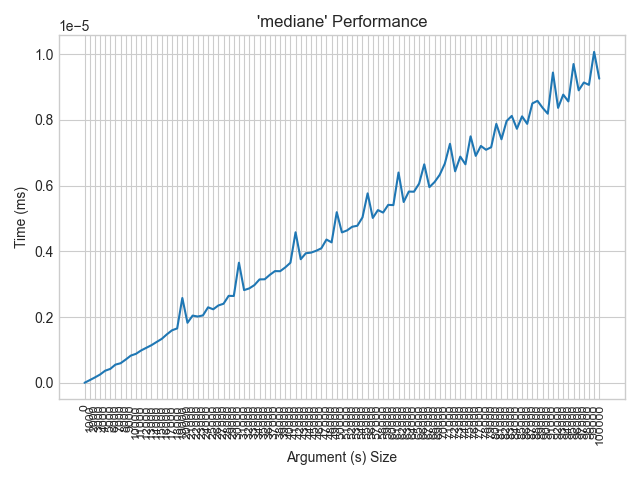
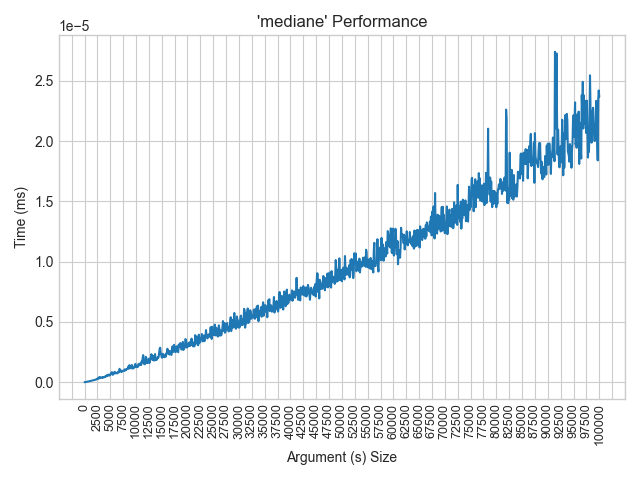
ajout des tests de performances

Changed region(s): [[0.0312, 0.0625, 0.9688, 0.9375]]

diff --git a/app/perf_funcs.py b/app/perf_funcs.py
@@ -27,6 +27,11 @@ nw_args = [
     for N in range(0, 50)
 ]
 
+
+#################################################################
+#--------------------- TEST DE PERFORMANCE ---------------------#
+#################################################################
+
 # nw_args = arg_generator(N=500, stride=5, type=STRINGS, samples=NUCLEOTIDES, variant_arg_pos=[0, 1], static_args=[[1, -1, -1]])
 # average_args = arg_generator(N=1000, stride=5, type=NUMBERS, lower=3000, upper=10000, variant_arg_pos=[0])
 # lev_args = arg_generator(N=100, stride=5, type=STRINGS, samples=NUCLEOTIDES, variant_arg_pos=[0, 1])
@@ -35,7 +40,17 @@ nw_args = [
 # func_performance(moyenne, args_arr=average_args, sizes=[0], sort_by=0, tick_spacing=10)
 # funcs_performance([ lev_rec, lev_dp, lev ], args_arr=lev_args, sizes=[0])
 
+###################### MOYENNE ######################
+average_args = arg_generator(N=100000, stride=150, type=NUMBERS, lower=1000, upper=100000, variant_arg_pos=[0])
+func_performance(moyenne, args_arr=average_args, sizes=[0], tick_spacing=100)
 
+
+###################### MEDIANE ######################
+median_args = arg_generator(N=100000, stride=100, type=NUMBERS, lower=1000, upper=100000, variant_arg_pos=[0])
+func_performance(mediane, args_arr=median_args, sizes=[0], tick_spacing=25)
+
+
+###################### QUARTILE ######################
 perf_graph = []
 quart_args = arg_generator(N=100000, stride=100, type=NUMBERS, lower=3000, upper=10000, variant_arg_pos=[0], static_args=[1])
 perf_graph.append(func_performance(quartile, args_arr=quart_args, sizes=[0], sort_by=0, figure=False))
@@ -43,3 +58,23 @@ for arg in quart_args:
     arg[1] = 3 # n de quartile
 perf_graph.append(func_performance(quartile, args_arr=quart_args, sizes=[0], sort_by=0, figure=False))
 plot_multi_graph(perf_graph, ["quart1", "quart3"], tick_spacing=20)
+
+
+###################### PROPORTION ######################
+prop_args = arg_generator(N=100000, stride=100, type=STRINGS, samples=NUCLEOTIDES, variant_arg_pos=[0], static_args=[NUCLEOTIDES])
+func_performance(proportions, args_arr=prop_args, sizes=[0], tick_spacing=25)
+
+
+###################### VARIANCE ######################
+variance_args = arg_generator(N=100000, stride=100, type=NUMBERS, lower=1000, upper=100000, variant_arg_pos=[0])
+func_performance(variance, args_arr=variance_args, sizes=[0], tick_spacing=25)
+
+
+###################### ECART-TYPE ######################
+ecatt_args = arg_generator(N=100000, stride=100, type=NUMBERS, lower=1000, upper=100000, variant_arg_pos=[0])
+func_performance(ecart_type, args_arr=ecatt_args, sizes=[0], tick_spacing=25)
+
+
+###################### ECART-TYPE ######################
+interquart_args = arg_generator(N=100000, stride=100, type=NUMBERS, lower=1000, upper=100000, variant_arg_pos=[0])
+func_performance(intervalle_interquartile, args_arr=interquart_args, sizes=[0], tick_spacing=25)

diff --git a/src/stats.py b/src/stats.py
@@ -120,7 +120,7 @@ def ecart_type(list):
         list : liste de valeurs
 
     Returns :
-        l'écart-type' de la liste
+        l'écart-type de la liste
     '''
     if not list:
         return None
